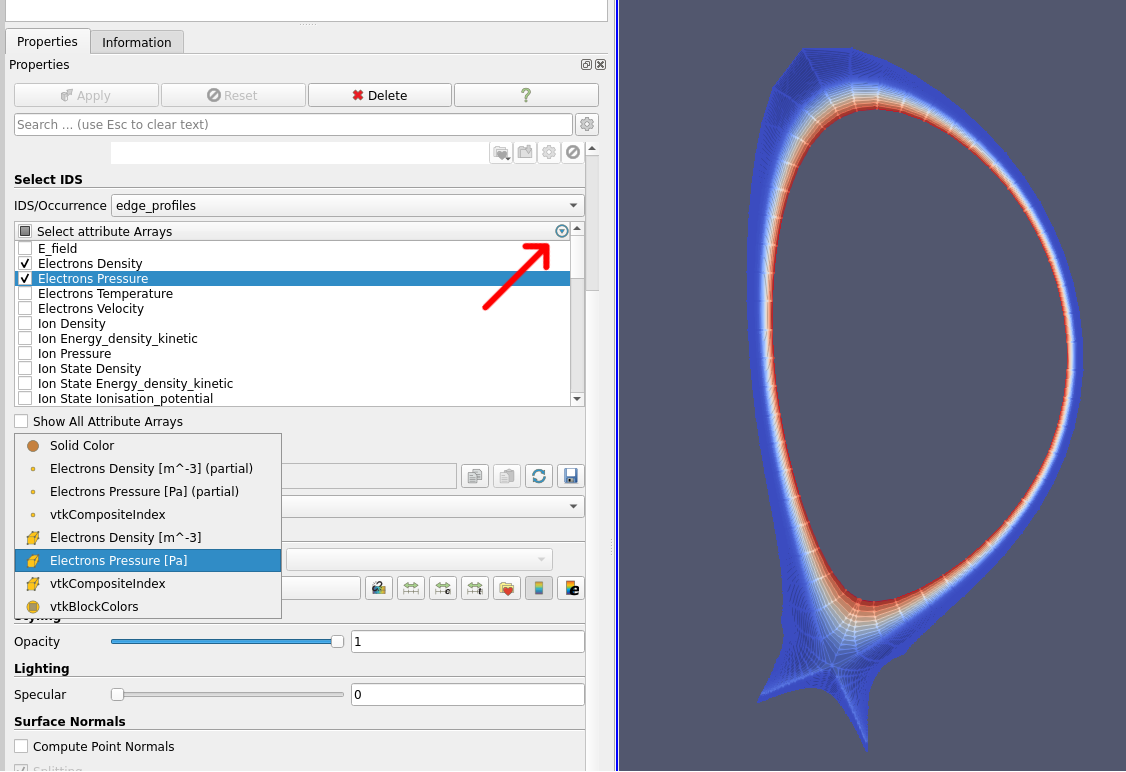
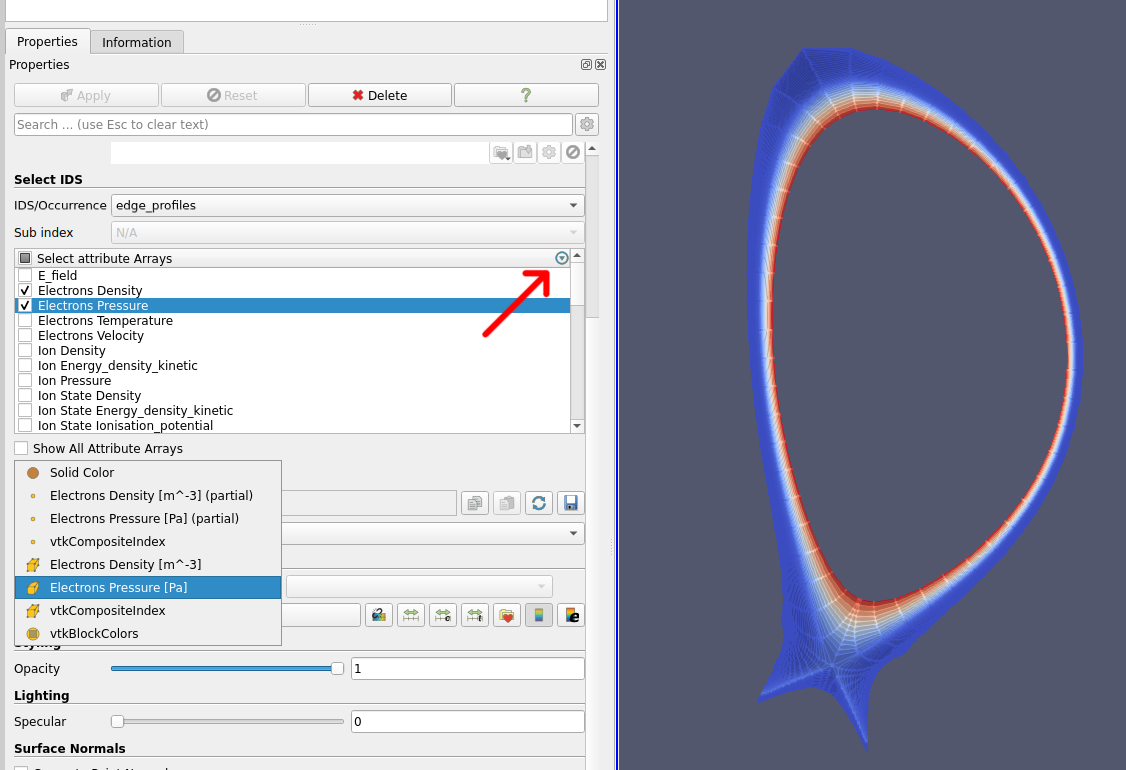
Update documentation for "Sub index" dropdown

diff --git a/docs/source/ggd_reader.rst b/docs/source/ggd_reader.rst
@@ -108,3 +108,20 @@ The selected quantities can now be visualized using Paraview's selection drop-do
    may be beneficial to load all data up front. This can be done by enabling the `Preload Data`
    checkbox in the plugin settings.
 
+
+Sub index
+---------
+
+You may have noticed the greyed-out dropdown labeled "Sub index" in the previous
+sections. This dropdown allows you to select different parent structures that may
+contain a GGD grid, but only applies to some IDSs.
+
+One of these IDSs is the ``wall`` IDS, where the GGD grids are defined inside the
+``description_ggd`` array. You can use this dropdown to select which array element
+should be visualized:
+
+.. figure:: images/sub_index.png
+
+   Choose between visualizing the grid from ``description_ggd[0]`` or
+   ``description_ggd[1]``. The meaning of the different indices is dependent on the data
+   provider.
